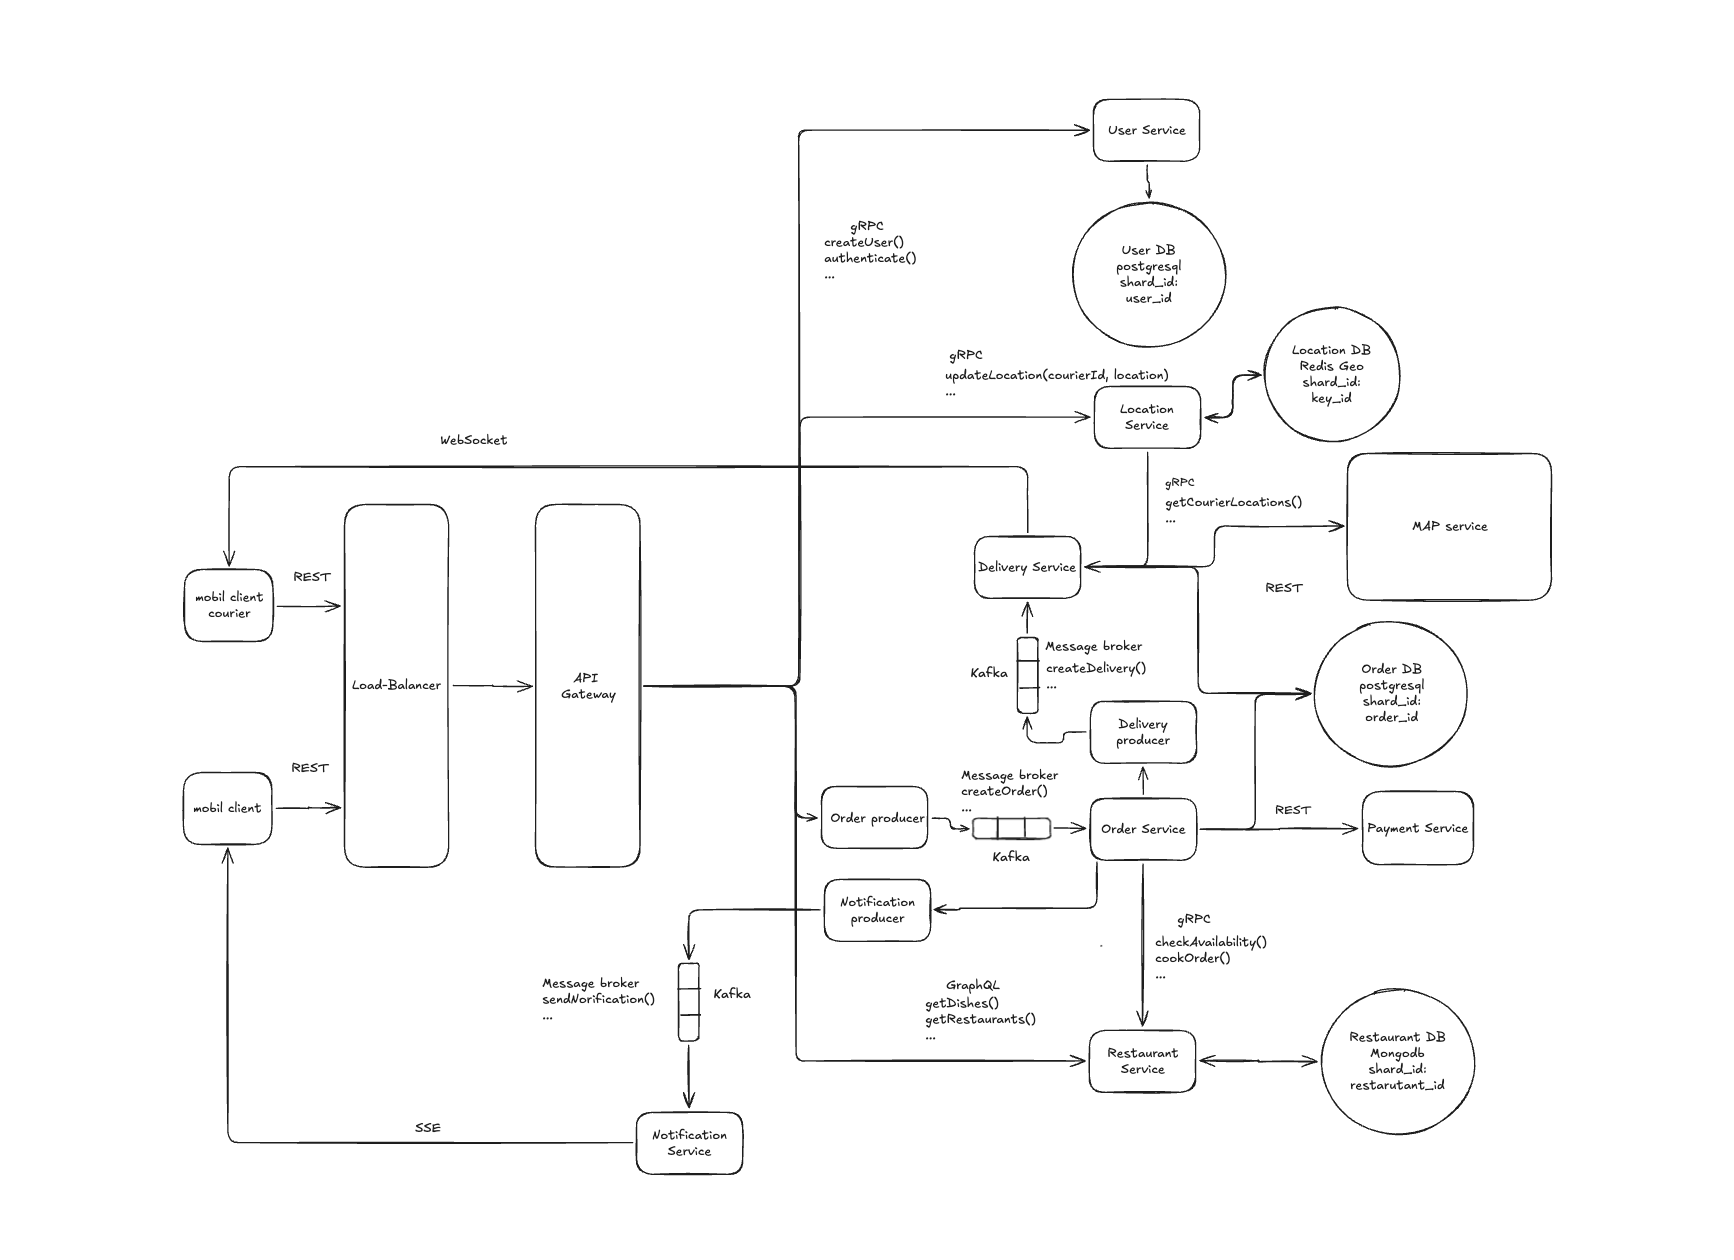
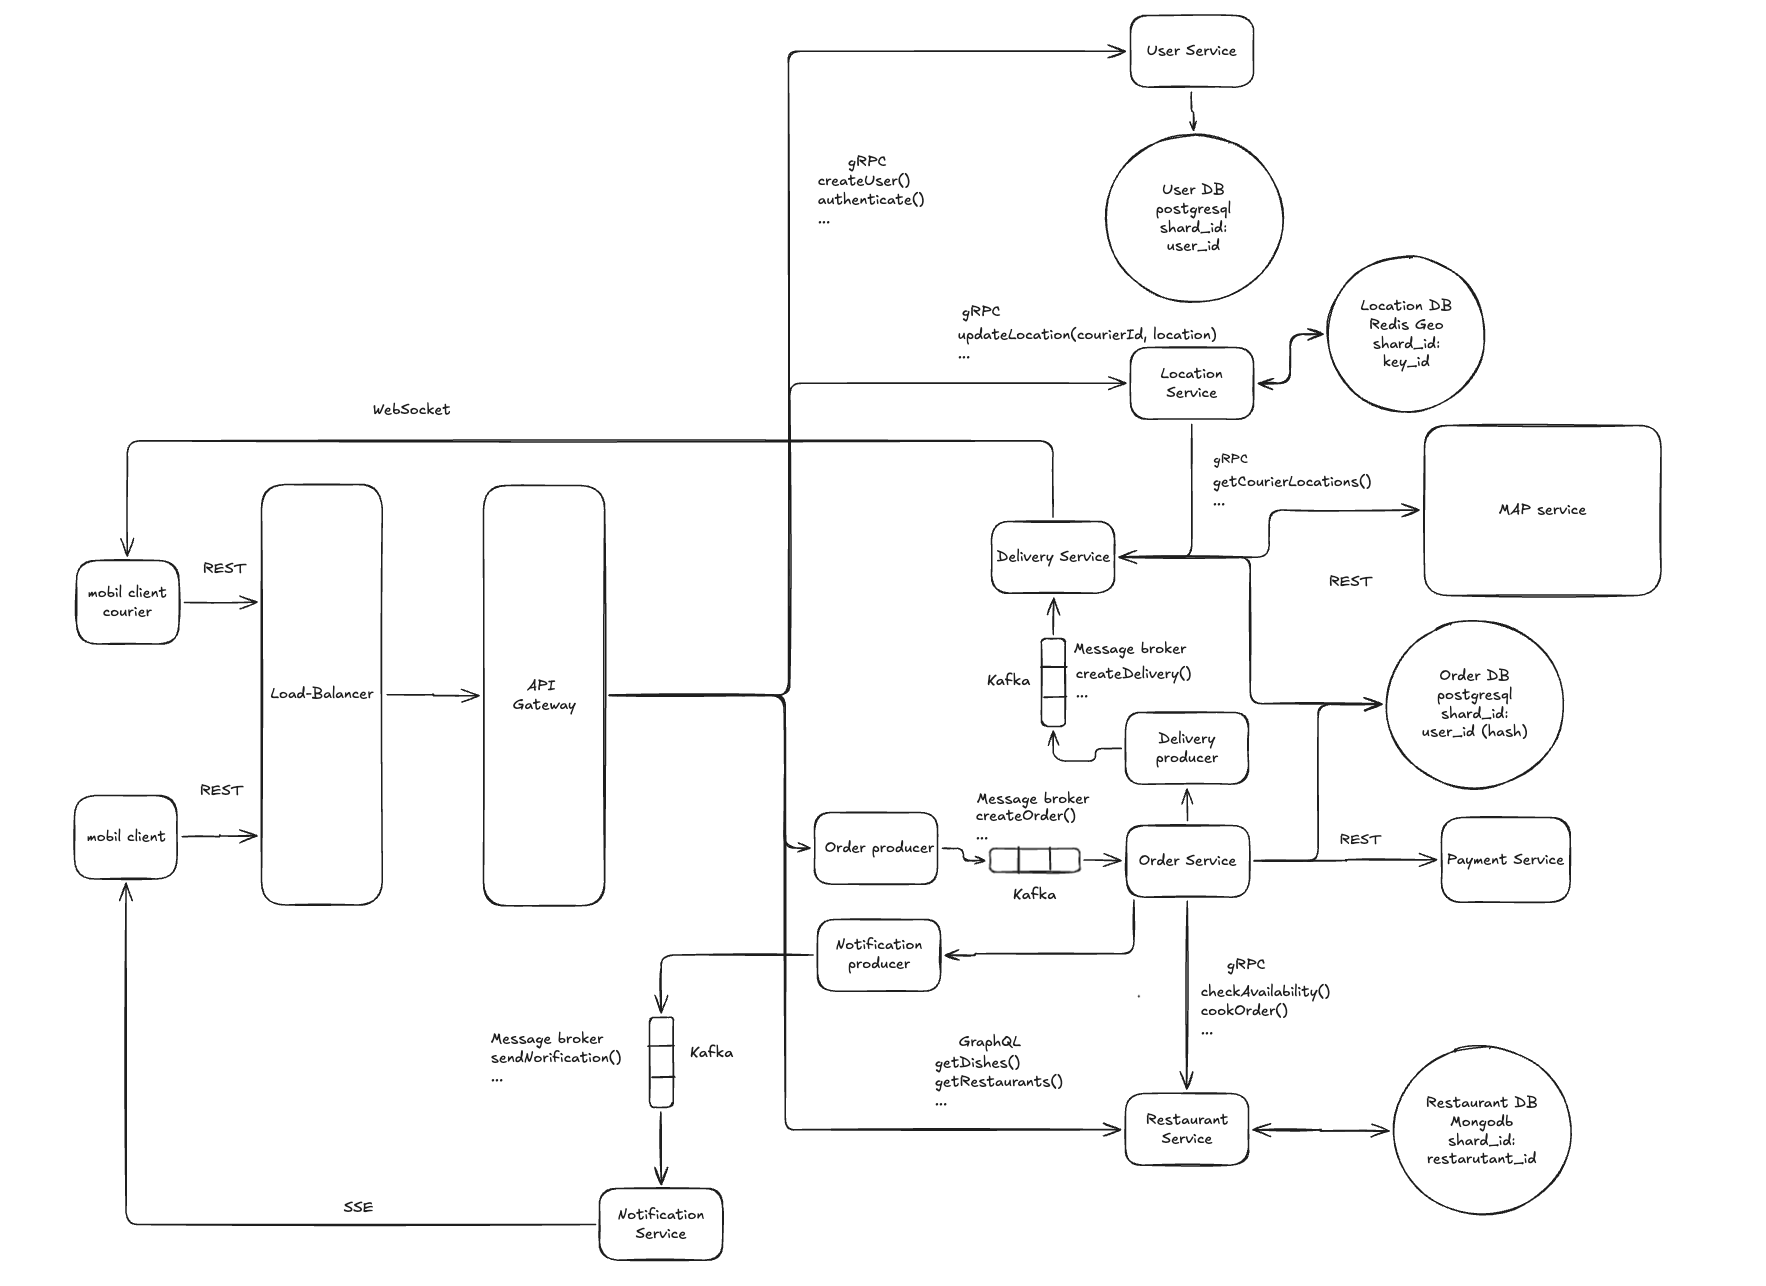
update hw3

diff --git a/hw_02/solution/README.md b/hw_02/solution/README.md
@@ -24,7 +24,7 @@ _Доставка еды_
 3. Order Service - Создание заказов, оплата, формирование уведомлений по статусам
 4. Location Service - Сбор и обработка локации курьеров
 5. Restaurant Service - Получение списка блюд меню и информации о ценах, отправка заказа в ресторан
-6. Payment Service - Работа с платежным шлюзом
+6. Payment Service - Работа с платежным шлюзом. Payment Service — stateless-прокси к внешнему api, а запись в базу данных о платеже пишет сам Order Service
 7. Notification Service - отправка уведомлений из очереди
 8. Map Service - внешний сервис карт
 

diff --git a/hw_04/solution/README.md b/hw_04/solution/README.md
@@ -6,7 +6,10 @@
 
 ## Исходные параметры
 
-_MAU/DAU, частота операций, пиковые коэффициенты._
+**Доставка еды:**
+- 5 млн MAU, 500K DAU
+- 2 заказа на пользователя в неделю
+- Пик: x3 в обед и вечер
 
 ## 1. Расчёт RPS
 
